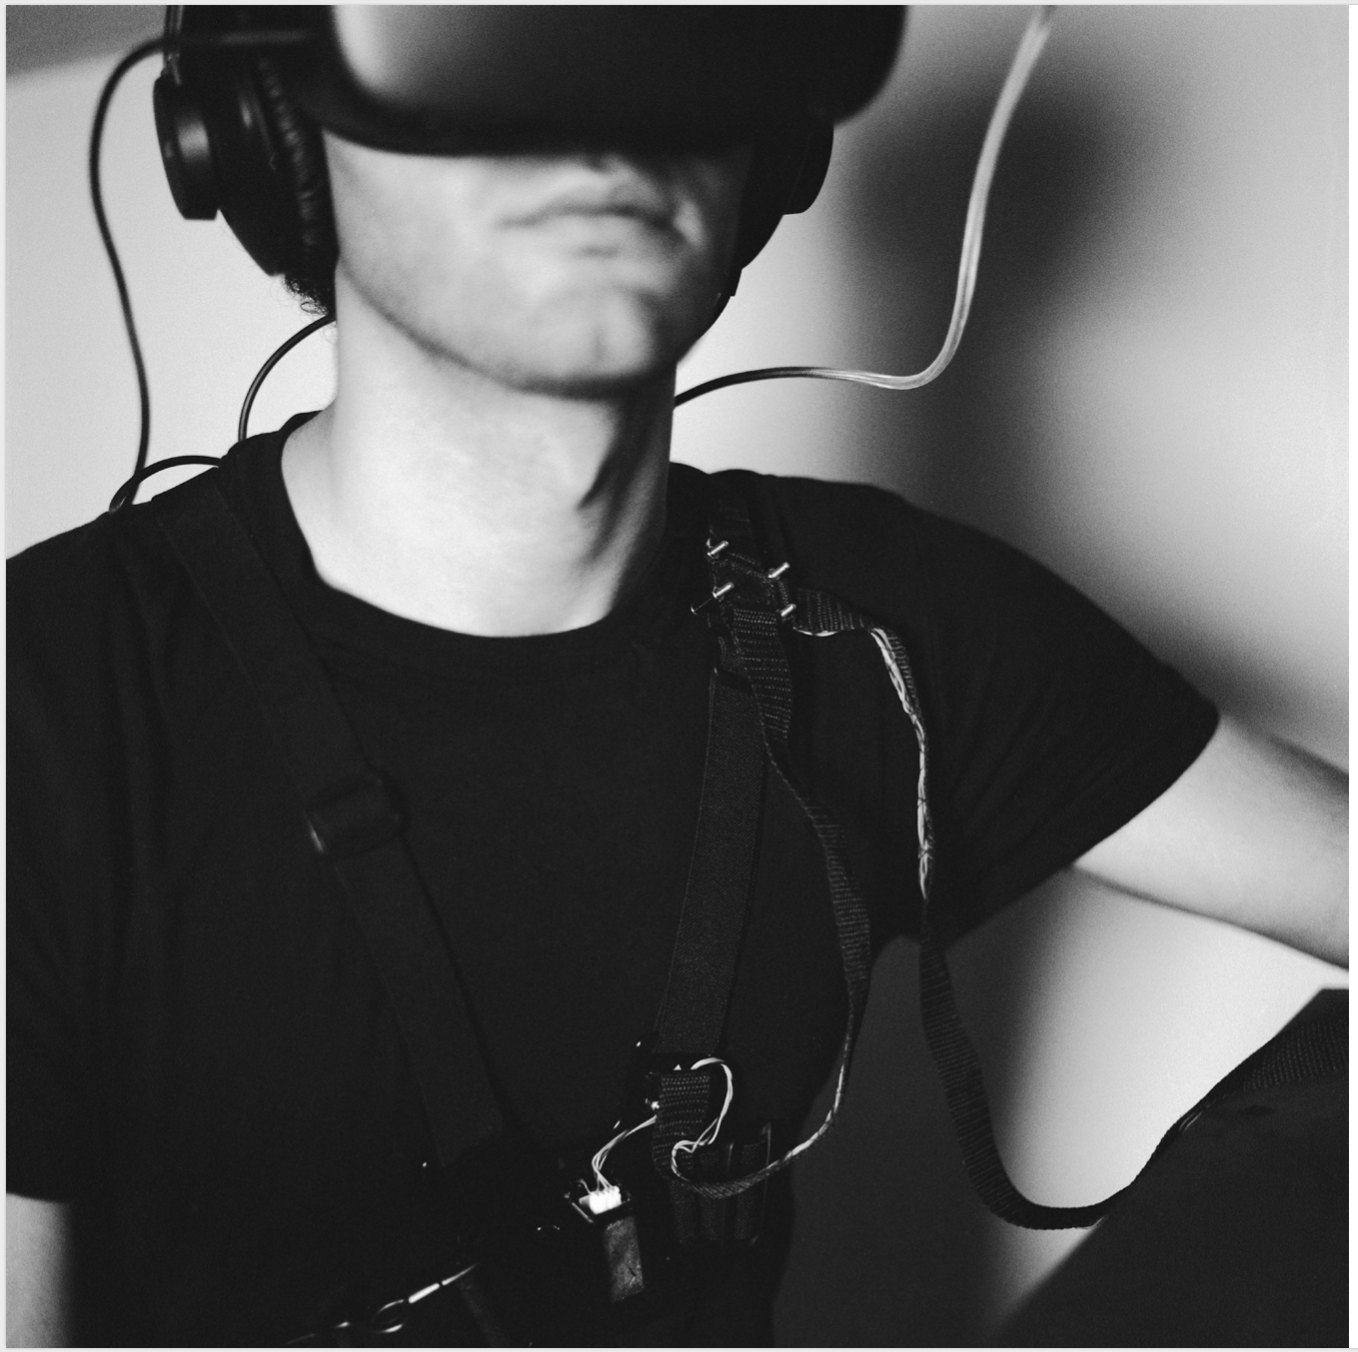
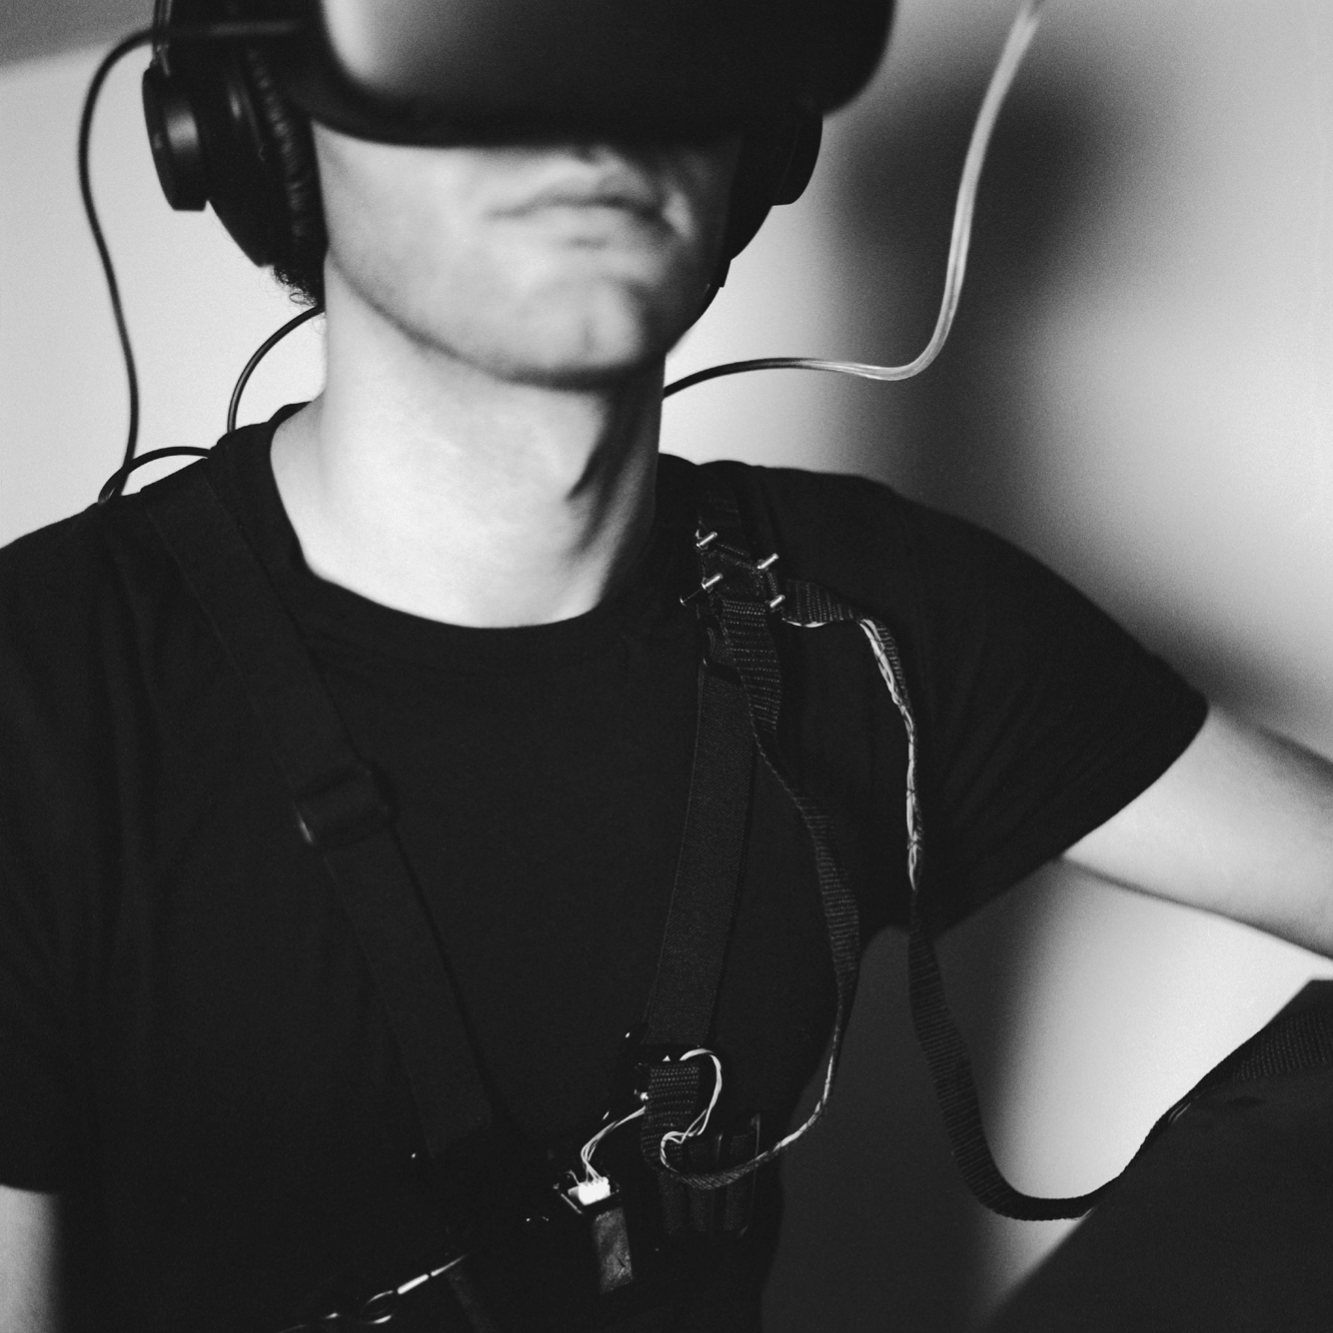
optimised images

diff --git a/arselectronica.html b/arselectronica.html
@@ -21,34 +21,34 @@
       <div class="ars-photos">
          <div class="hass-carousel">
             <div class="image-container carousel-cell">
-               <img src="/assets/images/a.jpg" alt="" class="left">
+               <img src="/assets/images/a.jpeg" alt="The artist with the VR headset on, in bed." class="left">
             </div>
             <div class="image-container carousel-cell">
-               <img src="/assets/images/b.png" alt="">
+               <img src="/assets/images/b.png" alt="The artist with the VR headset on, eating dinner.">
             </div>
             <div class="image-container carousel-cell">
-               <img src="/assets/images/c.png" alt="">
+               <img src="/assets/images/c.png" alt="A close-up of the artist, and his biometric harness.">
             </div>
             <div class="image-container carousel-cell">
-               <img src="/assets/images/d.jpg" alt="" class="left">
+               <img src="/assets/images/d.jpg" alt="The artist with the VR headset on, on an exercise bike." class="left">
             </div>
             <div class="image-container carousel-cell">
-               <img src="/assets/images/e.jpg" alt="" class="right">
+               <img src="/assets/images/e.jpg" alt="A photograph of the artist with the VR headset on, from behind the exhibition." class="right">
             </div>
             <div class="image-container carousel-cell">
-               <img src="/assets/images/f.jpg" alt="">
+               <img src="/assets/images/f.jpg" alt="The artist with the VR headset on, walking around.">
             </div>
             <div class="image-container carousel-cell">
-               <img src="/assets/images/g.jpg" alt="">
+               <img src="/assets/images/g.jpg" alt="The artist with the VR headset on, eating pizza in bed.">
             </div>
             <div class="image-container carousel-cell">
-               <img src="/assets/images/h.png" alt="" class="right">
+               <img src="/assets/images/h.png" alt="The artist with the VR headset on, walking in the space." class="right">
             </div>
             <div class="image-container carousel-cell">
-               <img src="/assets/images/i.png" alt="" class="right">
+               <img src="/assets/images/i.png" alt="The artist with the VR headset on, asleep in bed." class="right">
             </div>
             <div class="image-container carousel-cell">
-               <img src="/assets/images/j.png" alt="" class="right">
+               <img src="/assets/images/j.png" alt="A triple exposed photograph of the artist with the VR headset on, at Ars Electronica Digital Arts Festival." class="right">
             </div>
          </div>
       

diff --git a/css/main.css b/css/main.css
@@ -29,7 +29,7 @@ a {
 
 #the-other-cta.invisible {
   opacity: 0;
-  transition: opacity 2s ease;
+  transition: opacity 1s ease;
 }
 
 .bold, .quotes-carousel .quo-source {
@@ -282,7 +282,7 @@ nav.concept-mobile {
   display: flex;
   flex-direction: row;
   flex-wrap: wrap;
-  justify-content: space-around;
+  justify-content: space-between;
   align-items: center;
   padding: 0 60px;
   margin-top: 30px;
@@ -306,6 +306,9 @@ nav.concept-mobile {
 }
 .logos .logo-container.logo-big {
   max-width: 180px;
+}
+.logos .logo-container.logo-eu {
+  max-width: 200px;
 }
 .logos .logo-container.arebyte {
   max-width: 210px;
@@ -388,6 +391,10 @@ footer form input.button {
   margin-top: 10px;
   display: inline-block;
   padding: 5px 7px;
+}
+#the-other-cta .cta-more-info .stream {
+  width: -webkit-max-content;
+  width: max-content;
 }
 #the-other-cta #drag {
   padding: 10px;
@@ -560,6 +567,10 @@ footer form input.button {
   nav.concept-mobile {
     display: flex;
     font-size: 26px;
+  }
+
+  .logos .logo-container.logo-eu {
+    max-width: 180px;
   }
 }
 @media (max-width: 700px) {
@@ -752,9 +763,12 @@ nav.concept,
     max-width: 70px;
   }
   .logos .logo-container.logo-small {
-    max-width: 50px;
+    max-width: 40px;
   }
   .logos .logo-container.logo-big {
-    max-width: 80px;
+    max-width: 75px;
+  }
+  .logos .logo-container.logo-eu {
+    max-width: 90px;
   }
 }

diff --git a/scss/main.scss b/scss/main.scss
@@ -46,7 +46,7 @@ a {
 
 #the-other-cta.invisible {
    opacity: 0;
-   transition: opacity 2s ease;
+   transition: opacity 1s ease;
 }
 
 .bold {
@@ -346,7 +346,7 @@ nav.concept-mobile {
    display: flex;
    flex-direction: row;
    flex-wrap: wrap;
-   justify-content: space-around;
+   justify-content: space-between;
    align-items: center;
    padding: 0 $unit;
    margin-top: $half-unit;
@@ -374,6 +374,10 @@ nav.concept-mobile {
 
    .logo-container.logo-big {
       max-width: 180px;
+   }
+
+   .logo-container.logo-eu {
+      max-width: 200px;
    }
 
    .logo-container.arebyte {
@@ -468,6 +472,10 @@ footer {
          margin-top: 10px;
          display: inline-block;
          padding: 5px 7px;
+      }
+
+      .stream {
+         width: max-content;
       }
 
    }
@@ -706,6 +714,10 @@ footer {
       font-size: $md-text;
    }
 
+   .logos .logo-container.logo-eu {
+      max-width: 180px;
+   }
+
 }
 
 @media (max-width: 700px) {
@@ -937,11 +949,15 @@ footer {
       }
    
       .logo-container.logo-small {
-         max-width: 50px;
+         max-width: 40px;
       }
    
       .logo-container.logo-big {
-         max-width: 80px;
+         max-width: 75px;
+      }
+
+      .logo-container.logo-eu {
+         max-width: 90px;
       }
    }
 }

diff --git a/index.html b/index.html
@@ -29,7 +29,7 @@
       </div>
       <div class="cta-more-info">
          <p class="cta-title">Seeing I: The Other</p>
-         <p>Streaming 360° Video</p>
+         <p class="stream">Streaming 360° Video</p>
          <p class="countdown"></p>
          <a class="button" href="/theother.html">Learn more →</a>
       </div>
@@ -343,13 +343,16 @@
             </div>
             
             <div class="logo-container logo-small">
-               <img src="/assets/images/sundance.svg" alt="Sundance Logo">
+               <img src="/assets/images/sundance.png" alt="Sundance Logo">
             </div>
             <div class="logo-container logo-big">
                <img src="/assets/images/bds_clear_logo.png" alt="Body Data Space Logo">
             </div>
             <div class="logo-container logo-small">
                <img src="/assets/images/national-theatre-logo.jpg" alt="Body Data Space Logo">
+            </div>
+            <div class="logo-container logo-eu">
+               <img src="/assets/images/logosbeneficairescreativeeuropeleft_en.jpg" alt="Creative European Programme of the European Union Logo">
             </div>
             
          </section>

diff --git a/js/main.js b/js/main.js
@@ -30,7 +30,7 @@ document.addEventListener("DOMContentLoaded", function(event) {
    });
 
    var photosCar = document.querySelector('.photos-carousel');
-   var flkty = new Flickity( photosCar, {
+   var flktyPho = new Flickity( photosCar, {
    // options
    cellAlign: 'left',
    contain: true,
@@ -42,6 +42,10 @@ document.addEventListener("DOMContentLoaded", function(event) {
    selectedAttraction: 0.2,
    friction: 0.8
    });
+
+   
+
+
 
    ///
    ///
